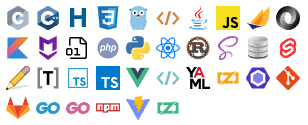
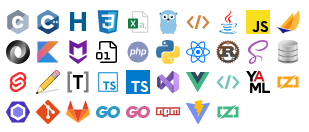
Add vcxproj.

diff --git a/sample/sample.html b/sample/sample.html
@@ -24,6 +24,7 @@
 		<img src="../extension/cpp.svg" />
 		<img src="../extension/c-header.png" />
 		<img src="../extension/css.svg" />
+		<img src="../extension/csv.svg" />
 		<img src="../extension/go.svg" />
 		<img src="../extension/html.svg" />
 		<img src="../extension/java.svg" />
@@ -44,6 +45,7 @@
 		<img src="../extension/toml.svg" />
 		<img src="../extension/typescript-def.svg" />
 		<img src="../extension/typescript.svg" />
+		<img src="../extension/vcxproj.svg" />
 		<img src="../extension/vue.svg" />
 		<img src="../extension/xml.svg" />
 		<img src="../extension/yaml.svg" />
